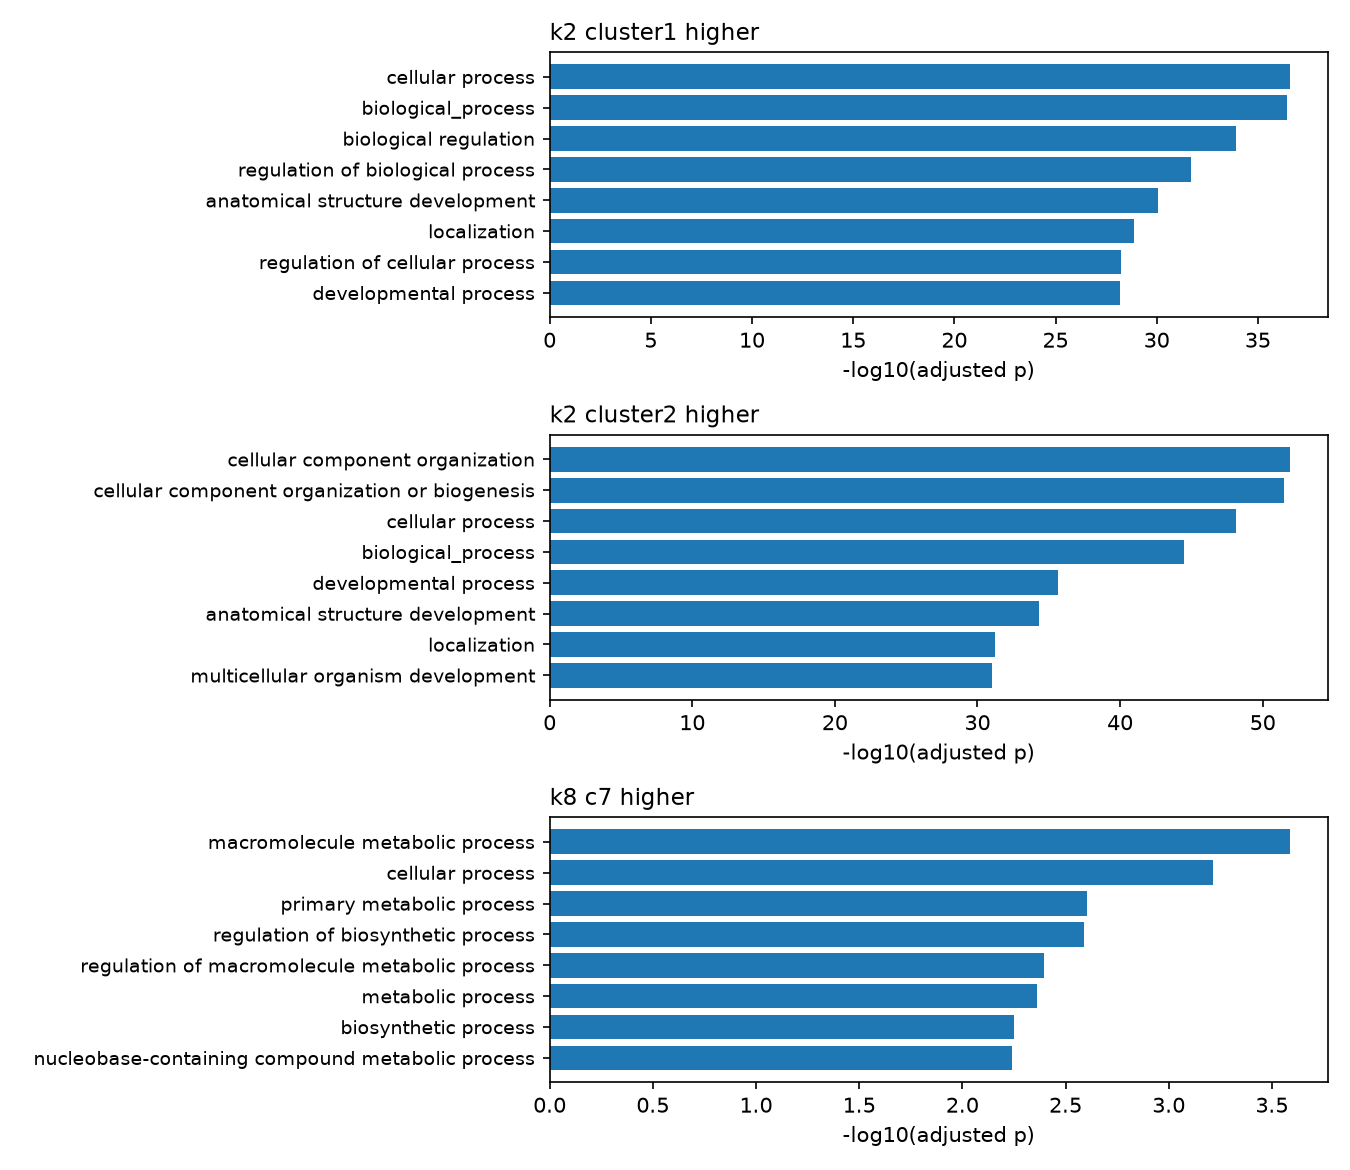
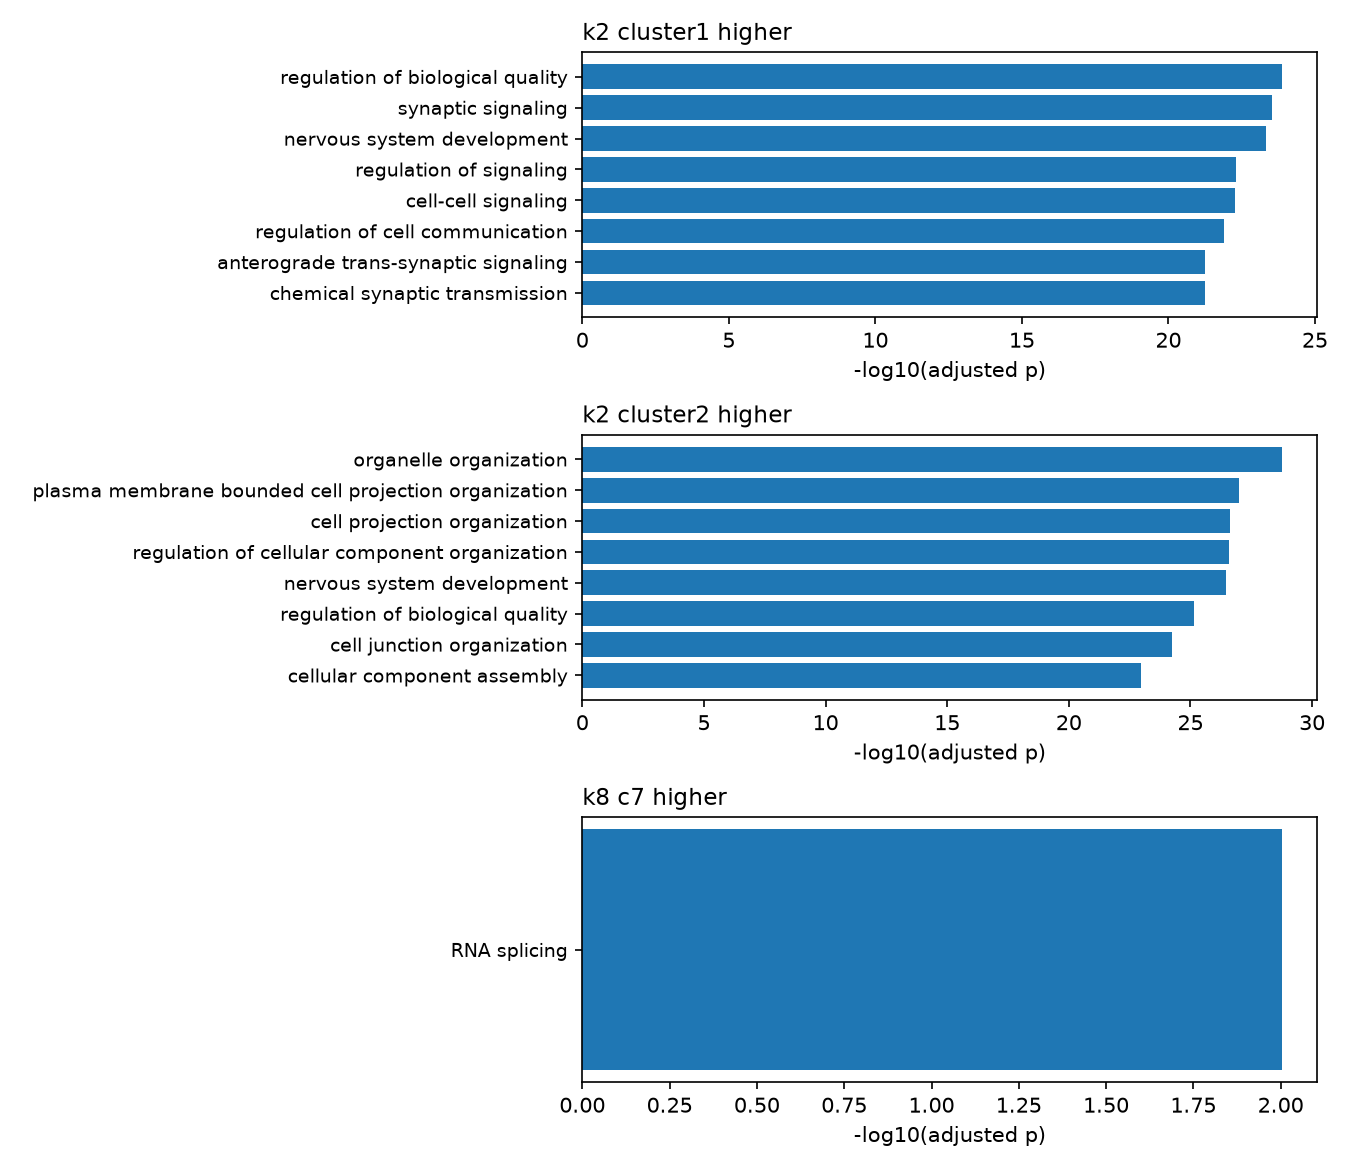
a4

diff --git a/scripts/a3_enrichment.py b/scripts/a3_enrichment.py
@@ -10,16 +10,16 @@ from a3_common import load_labels, load_metadata, load_subset
  
 warnings.filterwarnings("ignore", message="Precision loss")
  
-N_GENES_TESTED = 10000   
+N_GENES_TESTED = 10000
 PADJ_CUTOFF = 0.05
-MIN_DIFF = 0.1           
-MAX_LIST = 500           
+MIN_DIFF = 0.1
+MAX_LIST = 500
+MIN_TERM, MAX_TERM = 10, 500
 MAPPING_PATH = "results/gene_id_mapping.csv"
 RUN_ENRICH = "--no-enrich" not in sys.argv
  
  
 def bh(p):
-    """Benjamini-Hochberg adjusted p-values."""
     p = np.asarray(p)
     n = len(p)
     order = np.argsort(p)
@@ -31,7 +31,6 @@ def bh(p):
  
  
 def compare(vst, in_group, out_group, name):
-    """Welch t-test per gene, in_group vs out_group. Returns a results table."""
     a = vst[in_group].to_numpy()
     b = vst[out_group].to_numpy()
     t, p = stats.ttest_ind(a, b, axis=1, equal_var=False)
@@ -59,7 +58,6 @@ def compare(vst, in_group, out_group, name):
  
  
 def enrich(genes, name):
-    """g:Profiler GO:BP with the tested genes as the custom background."""
     if len(genes) < 5:
         print(f"    {name}: only {len(genes)} genes, skipping enrichment")
         return None
@@ -70,15 +68,17 @@ def enrich(genes, name):
         query=genes,
         sources=["GO:BP"],
         background=BACKGROUND,
-        domain_scope="custom",
+        domain_scope="custom_annotated",
         all_results=True,
     )
     res.to_csv(f"results/a3_enrichment_{name}.csv", index=False)
     sig = res[res["significant"] == True]
-    print(f"    {name}: {len(genes)} genes, {len(res)} terms tested, {len(sig)} significant")
-    for _, row in sig.head(5).iterrows():
-        print(f"      {row['p_value']:.2e}  {row['name']}")
-    return sig
+    specific = sig[(sig["term_size"] >= MIN_TERM) & (sig["term_size"] <= MAX_TERM)]
+    print(f"    {name}: {len(genes)} genes, {len(res)} terms tested, {len(sig)} significant, "
+          f"{len(specific)} specific ({MIN_TERM}-{MAX_TERM} genes)")
+    for _, row in specific.head(5).iterrows():
+        print(f"      {row['p_value']:.2e}  {row['name']}  ({row['intersection_size']}/{row['term_size']})")
+    return specific
  
  
 meta = load_metadata()
@@ -143,3 +143,4 @@ if tops:
     fig.tight_layout()
     fig.savefig("figures/a3_cluster_enrichment.png", dpi=150)
     print("\nWrote figures/a3_cluster_enrichment.png")
+ 
